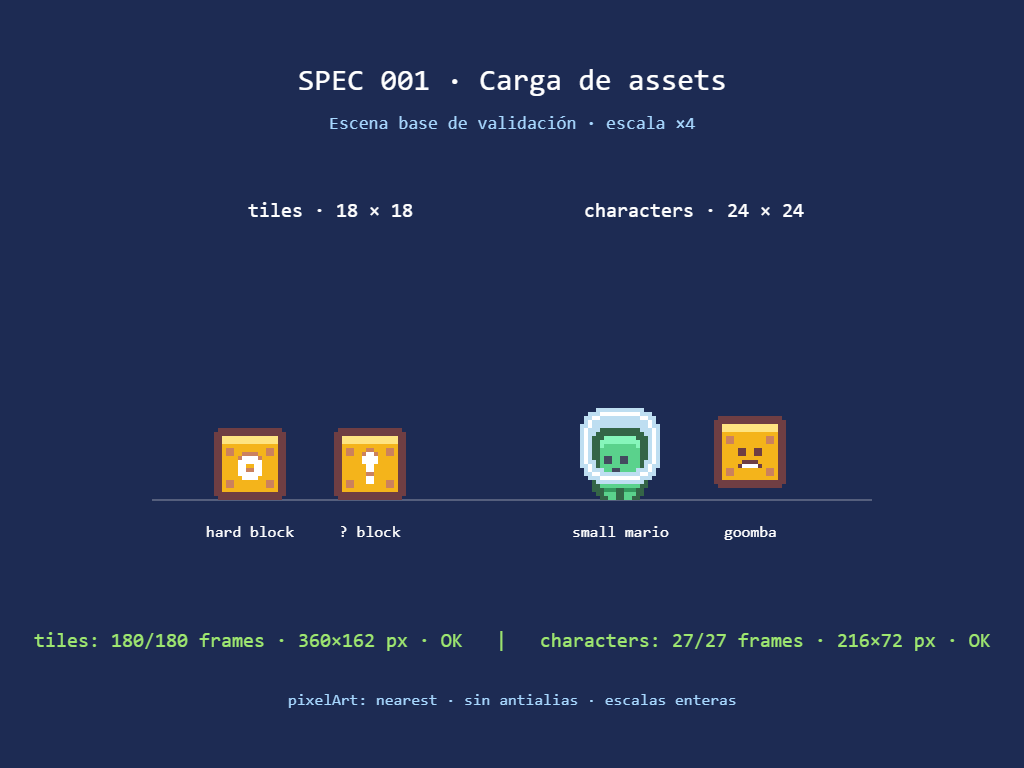
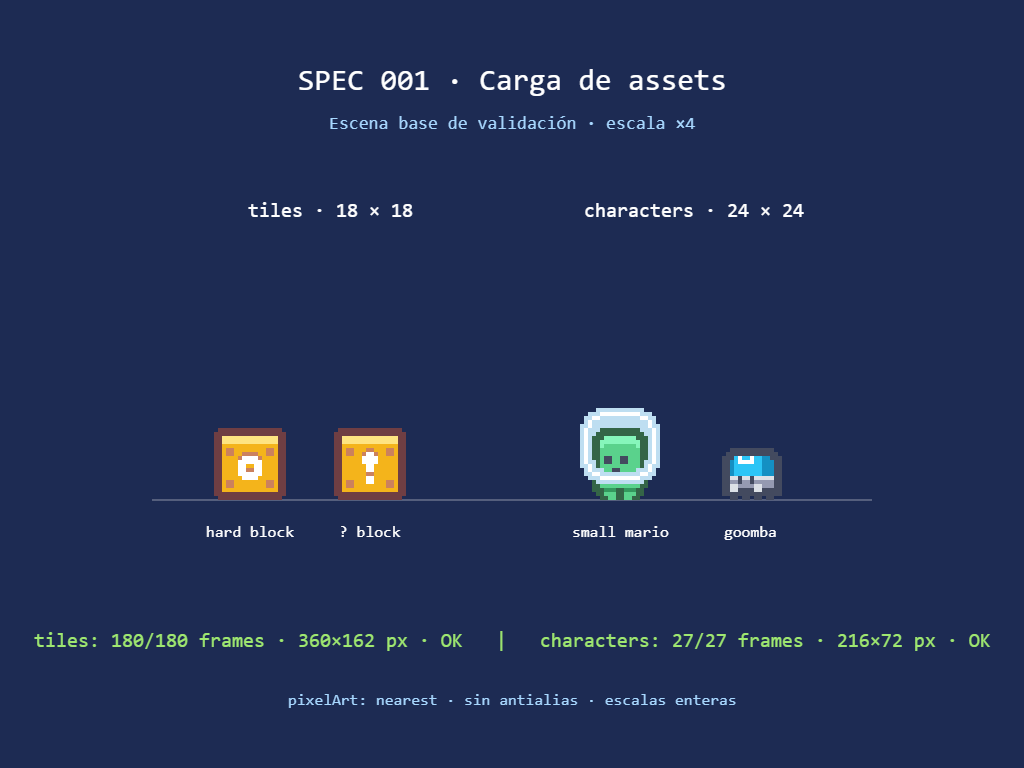
feat(goomba): update Goomba frames and assets references
* Changed Goomba walking frames to [18, 19, 20].
* Updated flattened state frame to [18].
* Modified asset references in GDD and related specs.
* Adjusted constants in assets.js to reflect new frame indices.

Changed region(s): [[0.6875, 0.5312, 0.7812, 0.6562]]

diff --git a/src/game/constants/assets.js b/src/game/constants/assets.js
@@ -95,7 +95,7 @@ export const CHARACTERS = Object.freeze({
     SUPER_MARIO: character({ frames: [0, 1], hitbox: HITBOXES.MARIO_SUPER, scale: 1.5 }),
     MARIO_IDLE: character({ frames: [0], hitbox: HITBOXES.MARIO_SMALL }),
     MARIO_JUMP: character({ frames: [1], hitbox: HITBOXES.MARIO_SMALL }),
-    GOOMBA: character({ frames: [11, 12], hitbox: HITBOXES.GOOMBA }),
-    GOOMBA_FLATTENED: character({ frames: [11], hitbox: HITBOXES.GOOMBA }),
+    GOOMBA: character({ frames: [18, 19, 20], hitbox: HITBOXES.GOOMBA }),
+    GOOMBA_FLATTENED: character({ frames: [18], hitbox: HITBOXES.GOOMBA }),
     PIRANHA_PLANT: character({ sheet: null, frames: [], hitbox: HITBOXES.PIRANHA_PLANT })
 });

diff --git a/docs/GDD.md b/docs/GDD.md
@@ -72,8 +72,8 @@ El índice de frame en Phaser coincide con el índice de celda de este documento
 | Super Mario | `tilemap-characters_packed.png` | `[0, 1]` | ídem | `mario_walk`, 10 fps, loop, `scale 1.5` | `(0.5, 1)` | 20 × 26 |
 | Mario quieto / salto / caída | `tilemap-characters_packed.png` | `[0]` (quieto) · `[1]` (salto y caída) | ídem | frame congelado, sin animación propia | `(0.5, 1)` | — |
 | Mario con daño | — | — | — | parpadeo por alpha, sin frames propios | — | — |
-| Goomba | `tilemap-characters_packed.png` | `[11, 12]` | `(48, 24, 24, 24)` · `(72, 24, 24, 24)` | `goomba_walk`, 8 fps, loop | `(0.5, 1)` | 16 × 14 |
-| Goomba aplastado | `tilemap-characters_packed.png` | `[11]` | `(48, 24, 24, 24)` | frame congelado + `scaleY 0.3` durante 100 ms, luego se destruye | `(0.5, 1)` | — |
+| Goomba | `tilemap-characters_packed.png` | `[18, 19, 20]` | `(0, 48, 24, 24)` · `(24, 48, 24, 24)` · `(48, 48, 24, 24)` | `goomba_walk`, 8 fps, loop | `(0.5, 1)` | 16 × 14 |
+| Goomba aplastado | `tilemap-characters_packed.png` | `[18]` | `(0, 48, 24, 24)` | frame congelado + `scaleY 0.3` durante 100 ms, luego se destruye | `(0.5, 1)` | — |
 | Piranha Plant | **sin asset** | — | — | textura generada por geometría (ver 2.6) | `(0.5, 1)` | 12 × 10 |
 
 El pack no incluye animaciones de reposo, salto, daño ni muerte: se resuelven con frame congelado o tween, nunca con frames inexistentes.
@@ -323,7 +323,7 @@ La Piranha Plant es un enemigo que vive dentro de las tuberías.
 * Mario no puede derrotarla saltando sobre ella.  
 * Debe esquivarla y esperar el momento adecuado para pasar.
 
-> **Assets:** Goomba = `box_enemy`, frames `[11, 12]` → `(48, 24, 24, 24)` y `(72, 24, 24, 24)`, 8 fps, hitbox `16 × 14`. Piranha Plant = sin asset, `piranha_open` / `piranha_closed` generadas por geometría. Ver §2.4 y §2.6.
+> **Assets:** Goomba = `crawler_blue`, frames `[18, 19, 20]` → `(0, 48, 24, 24)`, `(24, 48, 24, 24)` y `(48, 48, 24, 24)`, 8 fps, hitbox `16 × 14`. Piranha Plant = sin asset, `piranha_open` / `piranha_closed` generadas por geometría. Ver §2.4 y §2.6.
 
 ## **7\. Elementos del escenario**
 
@@ -430,7 +430,7 @@ A medida que avance encontrará bloques, enemigos y obstáculos que deberá supe
 
 Finalmente llegará al Goal Pole que marca el final del nivel.
 
-> **Assets del nivel:** tiles `0–3`/`20–23` (pasto), `120–123`/`140–143` (tierra), `40–43`/`60–63` (plataformas), `12–15` (plataforma roja), `11` (hard), `10` (?), `9` (vacío), `29` (ladrillo), `151` (moneda), `128` (hongo), `95`+`115` (tubería), `32`/`52`/`72`+`85` (meta), `153–156` (nubes). Enemigos: frames `[11, 12]` y Piranha generada. Ver §2.4–2.6.
+> **Assets del nivel:** tiles `0–3`/`20–23` (pasto), `120–123`/`140–143` (tierra), `40–43`/`60–63` (plataformas), `12–15` (plataforma roja), `11` (hard), `10` (?), `9` (vacío), `29` (ladrillo), `151` (moneda), `128` (hongo), `95`+`115` (tubería), `32`/`52`/`72`+`85` (meta), `153–156` (nubes). Enemigos: frames `[18, 19, 20]` (Goomba) y Piranha generada. Ver §2.4–2.6.
 
 ## **11\. Pantallas del juego**
 

diff --git a/.sdd/evidence/001-carga-de-assets-y-pixel-art.md b/.sdd/evidence/001-carga-de-assets-y-pixel-art.md
@@ -21,6 +21,7 @@ Resultado: spec 001 implementada y verificada. Las hojas se sirven desde `public
 Decisiones tomadas en revisión:
 - `bg.png` y `logo.png` se conservan en `public/assets/` para el futuro menú, pero la escena base ya no los carga.
 - La escena de validación usa escala entera ×4.
+- El Goomba usa `crawler_blue` frames `[18, 19, 20]` como ciclo de caminata (8 fps) y el frame `18` para el estado aplastado; se actualizaron `docs/GDD.md` §2.4/§6.1/§10, la spec 009 y `src/game/constants/assets.js`.
 
 Limitaciones:
 - No hubo playtest manual humano; la verificación visual se hizo sobre una captura headless de Chrome.

diff --git a/.sdd/specs/009-goomba.md b/.sdd/specs/009-goomba.md
@@ -21,7 +21,7 @@ El Goomba es el enemigo básico y el que enseña la regla central de plataformas
 
 ## Related GDD or design reference
 
-- §2.4. Goomba y Goomba aplastado (frames `[11, 12]` → `(48, 24, 24, 24)` y `(72, 24, 24, 24)`, `goomba_walk` 8 fps, hitbox `16 × 14`, origen `(0.5, 1)`)
+- §2.4. Goomba y Goomba aplastado (frames `[18, 19, 20]` → `(0, 48, 24, 24)`, `(24, 48, 24, 24)` y `(48, 48, 24, 24)`, `goomba_walk` 8 fps, hitbox `16 × 14`, origen `(0.5, 1)`; asset `crawler_blue`)
 - §6.1. Goomba
 - §8.2. Vidas
 
